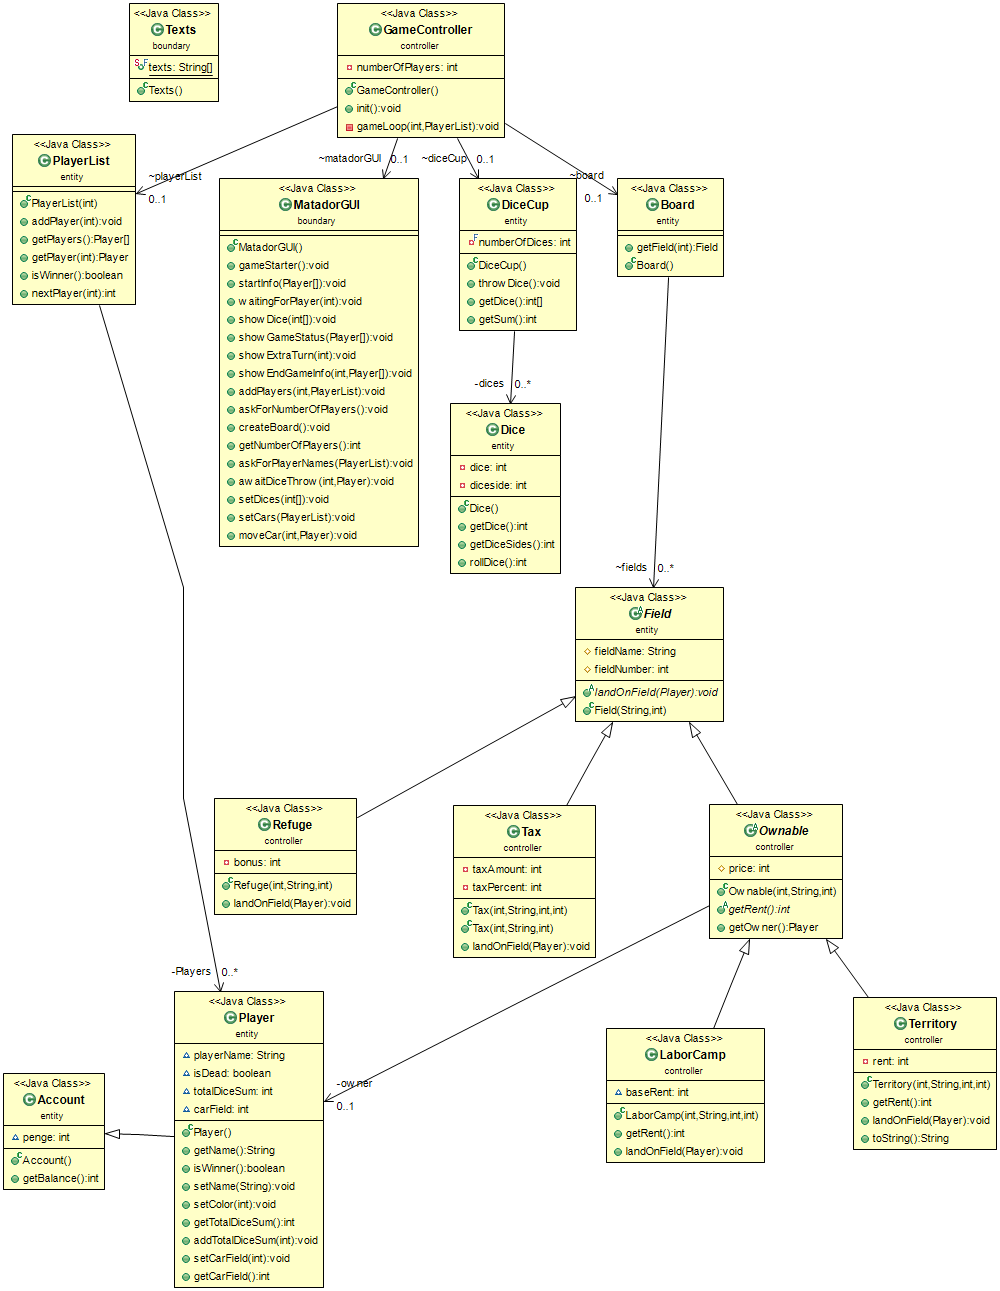
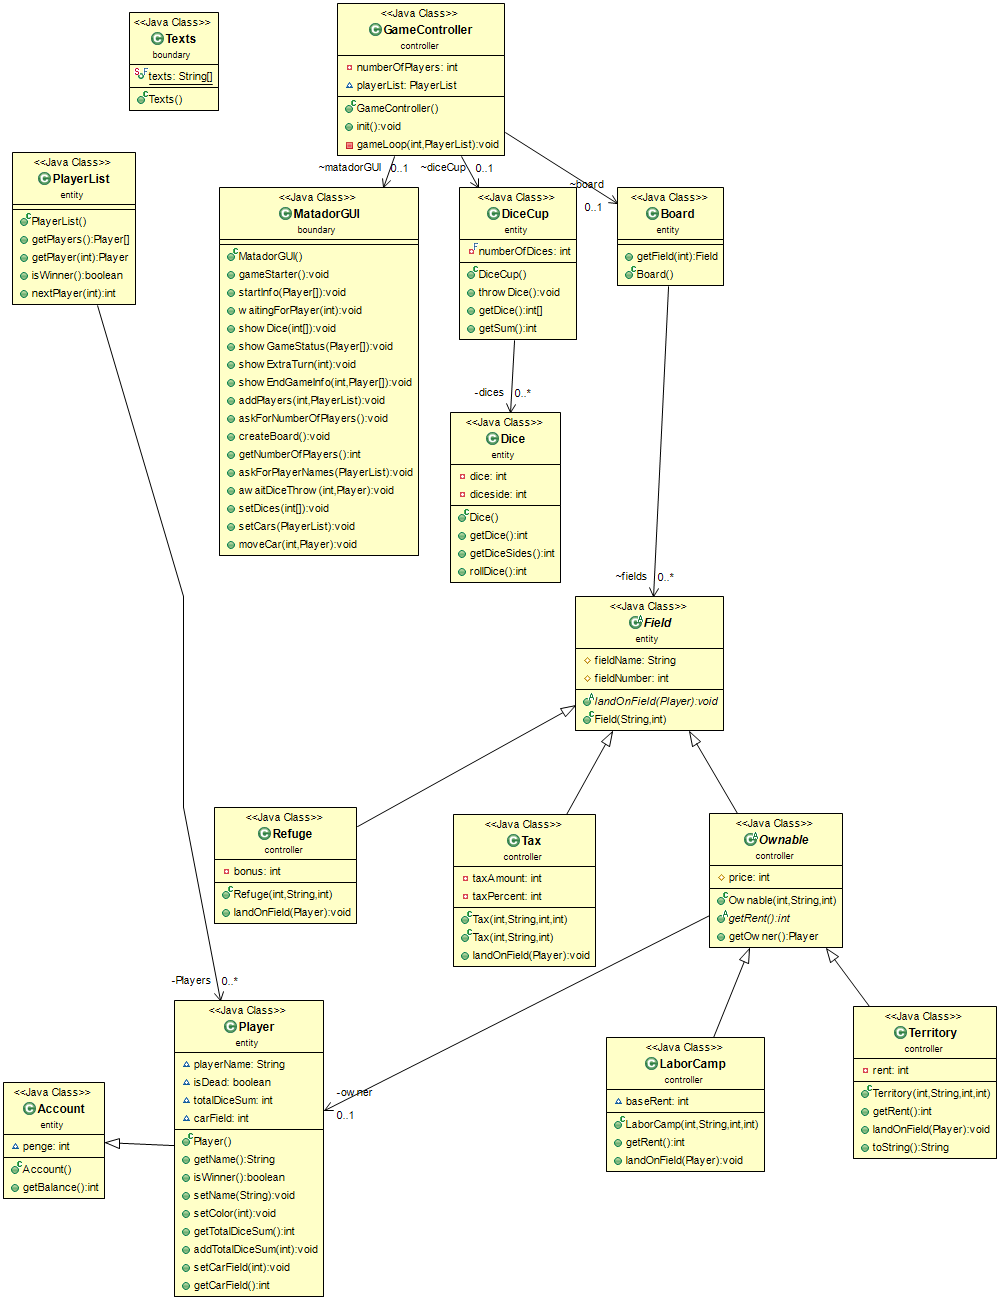
Spilleren kan nu købe et felt, og der tjekkes om det er ejet af nogen først.

diff --git a/52_del3/src/entity/Board.java b/52_del3/src/entity/Board.java
@@ -11,34 +11,39 @@ import controller.Territory;
 
 
 public class Board {
-	Field[] fields = new Field[23];	//Set as 23, because field[0] and field[1] doesnt exist or is used
+
+	Field[] fields = new Field[23];	//Set as 23, because field[0] and field[1] doesnt exist or is used (not sure it's the right way to do this.. )
 	
 	public Field getField(int FieldNr) {
 		Field Field = fields[FieldNr];
 		return Field;
 	}
 	public Board() {
-			fields[2] = new Territory(1, "Tribe Encampment", 100, 1000);
-			fields[3] = new Territory(2, "Crater", 300, 1500);
-			fields[4] = new Territory(3, "Mountain", 500, 2000);
-			fields[5] = new Territory(4, "Cold Desert", 700, 3000);
-			fields[6] = new Territory(5, "Black Cave", 1000, 4000);
-			fields[7] = new Territory(6, "The Werewall", 1300, 4300);
-			fields[8] = new Territory(7, "Mountain Village", 1600, 4750);
-			fields[9] = new Territory(8, "South Citadel", 2000, 5000);
-			fields[10] = new Territory(9, "Palace Gates", 2600, 5500);
-			fields[11] = new Territory(10, "Tower", 3200, 6000);
-			fields[12] = new Territory(11, "Castle", 4000, 8000);
-			fields[13] = new Refuge(12, "Walled City", 5000);
-			fields[14] = new Refuge(13, "Monastery", 500);
-			fields[15] = new LaborCamp(14, "Huts In The Mountain", 2500, 500);
-			fields[16] = new LaborCamp(15, "The Pit", 2500, 500);
-			fields[17] = new Tax(16, "Goldmine", 2000);
-			fields[18] = new Tax(17, "Caravan", 4000, 10);
-			fields[19] = new Fleet(18, "Second Sail", 4000);
-			fields[20] = new Fleet(19, "Sea Grover", 4000);
-			fields[21] = new Fleet(20, "The Buccaneers", 4000);
-			fields[22] = new Fleet(21, "Privateer armade", 4000);
-
+		    fields[1] = new Territory(1, "Start", 100, 1000);
+			fields[2] = new Territory(2, "Tribe Encampment", 100, 1000);
+			fields[3] = new Territory(3, "Crater", 300, 1500);
+			fields[4] = new Territory(4, "Mountain", 500, 2000);
+			fields[5] = new Territory(5, "Cold Desert", 700, 3000);
+			fields[6] = new Territory(6, "Black Cave", 1000, 4000);
+			fields[7] = new Territory(7, "The Werewall", 1300, 4300);
+			fields[8] = new Territory(8, "Mountain Village", 1600, 4750);
+			fields[9] = new Territory(9, "South Citadel", 2000, 5000);
+			fields[10] = new Territory(10, "Palace Gates", 2600, 5500);
+			fields[11] = new Territory(11, "Tower", 3200, 6000);
+			fields[12] = new Territory(12, "Castle", 4000, 8000);
+			fields[13] = new Refuge(13, "Walled City", 5000);
+			fields[14] = new Refuge(14, "Monastery", 500);
+			fields[15] = new LaborCamp(15, "Huts In The Mountain", 2500, 500);
+			fields[16] = new LaborCamp(16, "The Pit", 2500, 500);
+			fields[17] = new Tax(17, "Goldmine", 2000);
+			fields[18] = new Tax(18, "Caravan", 4000, 10);
+			fields[19] = new Fleet(19, "Second Sail", 4000);
+			fields[20] = new Fleet(20, "Sea Grover", 4000);
+			fields[21] = new Fleet(21, "The Buccaneers", 4000);
+			fields[22] = new Fleet(22, "Privateer armade", 4000);
 	}
+	public Field[] getFields() {
+		return fields;
+	}
+
 }

diff --git a/52_del3/src/controller/GameController.java b/52_del3/src/controller/GameController.java
@@ -2,8 +2,9 @@ package controller;
 
 import boundary.MatadorGUI;
 import entity.Board;
+import entity.Field;
 import entity.PlayerList;
-//import entity.Player;
+import entity.Player;
 import entity.DiceCup;
 /**
  * SpilController som uddelegerer opgaver
@@ -16,7 +17,9 @@ public class GameController {
 	MatadorGUI matadorGUI = new MatadorGUI();
 	DiceCup diceCup = new DiceCup();
 	Board board = new Board();
-	PlayerList playerList = new PlayerList(2);
+	PlayerList playerList = new PlayerList(2);	//The constructor should ideally not be receiving number of players, as we find the number later in init()
+
+	
 	/**
 	 * Initialiserer spillet
 	 */
@@ -39,10 +42,18 @@ public class GameController {
 		while(true) {
 			matadorGUI.awaitDiceThrow(currentPlayer, playerList.getPlayer(currentPlayer));	//Gives diceThrow to currentPlayer
 			diceCup.throwDice();	//Randomizes the dices
-			int[] faceValues = diceCup.getDice();
-			matadorGUI.setDices(faceValues);
+			matadorGUI.setDices(diceCup.getDice());
 			matadorGUI.moveCar(diceCup.getSum(), playerList.getPlayer(currentPlayer));	//Moves car for the current player who has just thrown dice
-			currentPlayer = playerList.nextPlayer(currentPlayer); //Gives next player turn
+			
+			//Field/Car/Player interactions
+				
+			board.getField(playerList.getPlayer(currentPlayer).getTotalDiceSum()).landOnField(playerList.getPlayer(currentPlayer), matadorGUI);	 //Refactor this!!!	
+			
+			//Update player money
+			matadorGUI.updateMoney(playerList.getPlayer(currentPlayer));
+			
+			//Gives next player turn
+			currentPlayer = playerList.nextPlayer(currentPlayer); 
 			
 		}
 	}

diff --git a/52_del3/src/boundary/MatadorGUI.java b/52_del3/src/boundary/MatadorGUI.java
@@ -101,8 +101,26 @@ public class MatadorGUI {
 	public void moveCar(int diceSum, Player player) {
 		GUI.removeAllCars(player.getName()); 	//Removing cars from this specific player, or we are going to have multiple cars on the board
 		player.addTotalDiceSum(diceSum); //We are adding a total diceSum to each player, so they move in circles around the board
-		GUI.setCar(player.getTotalDiceSum(), player.getName());	//Sets the new car based on the throw
-		
+		GUI.setCar(player.getTotalDiceSum(), player.getName());	//Sets the new car based on the throw		
+	}
+	public boolean askIfPlayerWantsToBuyTerritory() {
+		boolean x = GUI.getUserLeftButtonPressed(Texts.texts[12], "Ja", "Nej");
+		return x;
+	}
+
+	public void playerCantAfford() {
+		GUI.showMessage(Texts.texts[13]);
 		
 	}
+
+	public void updateMoney(Player player) {
+		GUI.setBalance(player.getName(), player.getBalance());
+		
+	}
+	
+	
+	
+	
+	
+	
 }

diff --git a/52_del3/src/entity/PlayerList.java b/52_del3/src/entity/PlayerList.java
@@ -13,13 +13,13 @@ public class PlayerList {
 			Players[i]=new Player();
 	} 
 	
-	public void addPlayer(int numberOfPlayers){			//Det virker ikke efter hensigten denne funktion!!
-		String[] PlayerNames = {"Peter ","Lene  ","Jan   ","Tobias","Jytte ","Lone  "};
-		for (int i=0; i < numberOfPlayers; i++){
-			Players[i].setName(PlayerNames[i]);
-			Players[i].setColor(i);
-		}	
-	}	
+//	public void addPlayer(int numberOfPlayers){			//Det virker ikke efter hensigten denne funktion!!
+//		String[] PlayerNames = {"Peter ","Lene  ","Jan   ","Tobias","Jytte ","Lone  "};
+//		for (int i=0; i < numberOfPlayers; i++){
+//			Players[i].setName(PlayerNames[i]);
+//			Players[i].setColor(i);
+//		}	
+//	}	
 
 	public Player[] getPlayers(){
 		return Players;

diff --git a/52_del3/src/controller/Ownable.java b/52_del3/src/controller/Ownable.java
@@ -1,4 +1,5 @@
 package controller;
+import boundary.MatadorGUI;
 import entity.Field;
 import entity.Player;
 
@@ -25,5 +26,26 @@ public abstract class Ownable extends Field {
 		return owner;
 	}
 	
-
+	public String toString() {
+		String x = "Feltnavn:" + fieldName + ", felt nr.:" + fieldNumber;
+		return x;
+	}
+	
+	
+	@Override
+	public void landOnField(Player player, MatadorGUI matadorGUI) {
+		if(getOwner() == null) {
+			boolean x = matadorGUI.askIfPlayerWantsToBuyTerritory();	//Gets yes/no answer if the players wants to buy
+			if(x) {
+				if(price <= player.getBalance()) {
+					player.withdraw(price);
+					owner = player;
+				} else if(price > player.getBalance()) {
+					matadorGUI.playerCantAfford();
+				}
+			}		
+		}
+	}
 }
+
+

diff --git a/52_del3/src/entity/Field.java b/52_del3/src/entity/Field.java
@@ -1,4 +1,7 @@
 package entity;
+
+import boundary.MatadorGUI;
+
 /**
  * Field class
  * @author 52
@@ -8,11 +11,23 @@ public abstract class Field {
 	protected String fieldName;
 	protected int fieldNumber;
 	
-	public abstract void landOnField(Player player);
+	public abstract void landOnField(Player player, MatadorGUI matadorGUI);
 	
 	public Field(String fieldName, int fieldNumber) {
 		this.fieldName = fieldName;
 		this.fieldNumber = fieldNumber;
 	}
+	
+	public String toString() {
+		String x = "Feltnavn:" + fieldName + ", felt nr.:" + fieldNumber;
+		return x;
+	}
+
+	public void landOnField(Player player) {
+		// TODO Auto-generated method stub
+		
+	}
+	
+	
 
 }

diff --git a/52_del3/src/controller/Territory.java b/52_del3/src/controller/Territory.java
@@ -1,6 +1,8 @@
 package controller;
 
+import boundary.MatadorGUI;
 import entity.Player;
+
 
 /**
  * Territory class
@@ -23,12 +25,18 @@ public class Territory extends Ownable {
 
 	@Override
 	public void landOnField(Player player) {
-		// TODO Auto-generated method stub
+		System.out.println("Det ejes af " + super.getOwner());
+		if(super.getOwner() == null) {
+			
+		}
 		
 	}
 	public String toString() {
 		return (fieldNumber + " " + fieldName + ", rent" + rent + ", price" + price);
 	}
+
+
+
 
 
 }

diff --git a/52_del3/src/entity/Player.java b/52_del3/src/entity/Player.java
@@ -6,10 +6,10 @@
 package entity;
 
 public class Player extends Account {
-	String playerName;		//Spiller navn
-	boolean isDead = false; //Variable for if player has lost all money
-	int totalDiceSum;
-	int carField;
+	private String playerName;		//Spiller navn
+	private boolean isDead = false; //Variable for if player has lost all money
+	private int totalDiceSum;
+	private int carField;
 	/** 
 	 * @return Returnerer spillerens navn
 	 */

diff --git a/52_del3/src/controller/Tax.java b/52_del3/src/controller/Tax.java
@@ -1,5 +1,6 @@
 package controller;
 
+import boundary.MatadorGUI;
 import entity.Field;
 import entity.Player;
 
@@ -26,6 +27,11 @@ public class Tax extends Field  {
 	}
 	@Override
 	public void landOnField(Player player) {
-		// TODO Auto-generated method stub		
+		System.out.println("landed on tax");		
+	}
+	@Override
+	public void landOnField(Player player, MatadorGUI matadorGUI) {
+		// TODO Auto-generated method stub
+		
 	}
 }

diff --git a/52_del3/src/controller/LaborCamp.java b/52_del3/src/controller/LaborCamp.java
@@ -7,6 +7,7 @@
  */
 package controller;
 
+import boundary.MatadorGUI;
 import entity.Player;
 
 public class LaborCamp extends Ownable {
@@ -23,6 +24,12 @@ public class LaborCamp extends Ownable {
 
 	@Override
 	public void landOnField(Player player) {
+		System.out.println("landed on laborcamp");
+		
+	}
+
+	@Override
+	public void landOnField(Player player, MatadorGUI matadorGUI) {
 		// TODO Auto-generated method stub
 		
 	}

diff --git a/52_del3/src/controller/Refuge.java b/52_del3/src/controller/Refuge.java
@@ -1,5 +1,6 @@
 package controller;
 
+import boundary.MatadorGUI;
 import entity.Field;
 import entity.Player;
 
@@ -13,6 +14,12 @@ public class Refuge extends Field {
 
 	@Override
 	public void landOnField(Player player) {
+		System.out.println("landed on Refuge");
+		
+	}
+
+	@Override
+	public void landOnField(Player player, MatadorGUI matadorGUI) {
 		// TODO Auto-generated method stub
 		
 	}

diff --git a/52_del3/src/boundary/Texts.java b/52_del3/src/boundary/Texts.java
@@ -17,7 +17,9 @@ public class Texts {
 		"Hvor mange spillere?",
 		"Hvor mange spillere?",
 		"Skriv venligst navn på spiller ",
-		"Spiller ",
-		", tryk for at rulle terninger"
+		"Spiller ",							//[10]
+		", tryk for at rulle terninger",
+		"Dette område ejes ikke af nogen, vil du købe det?",
+		"Du har ikke penge nok på kontoen til at købe"
 		};
 }
